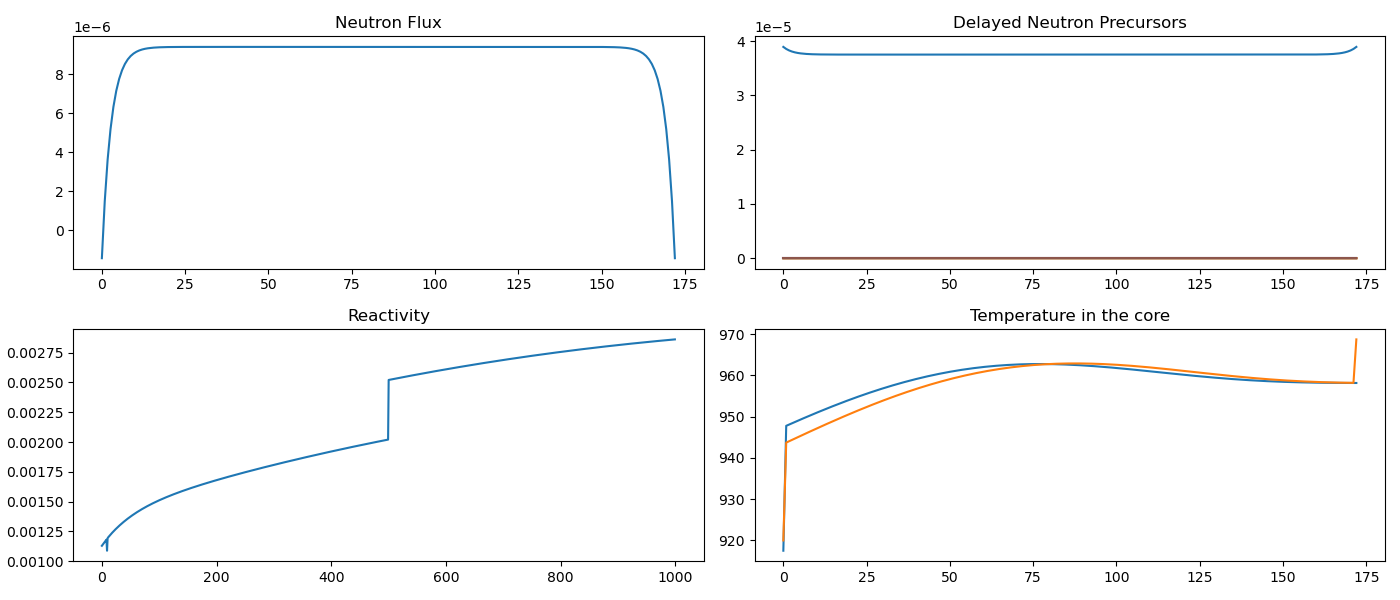
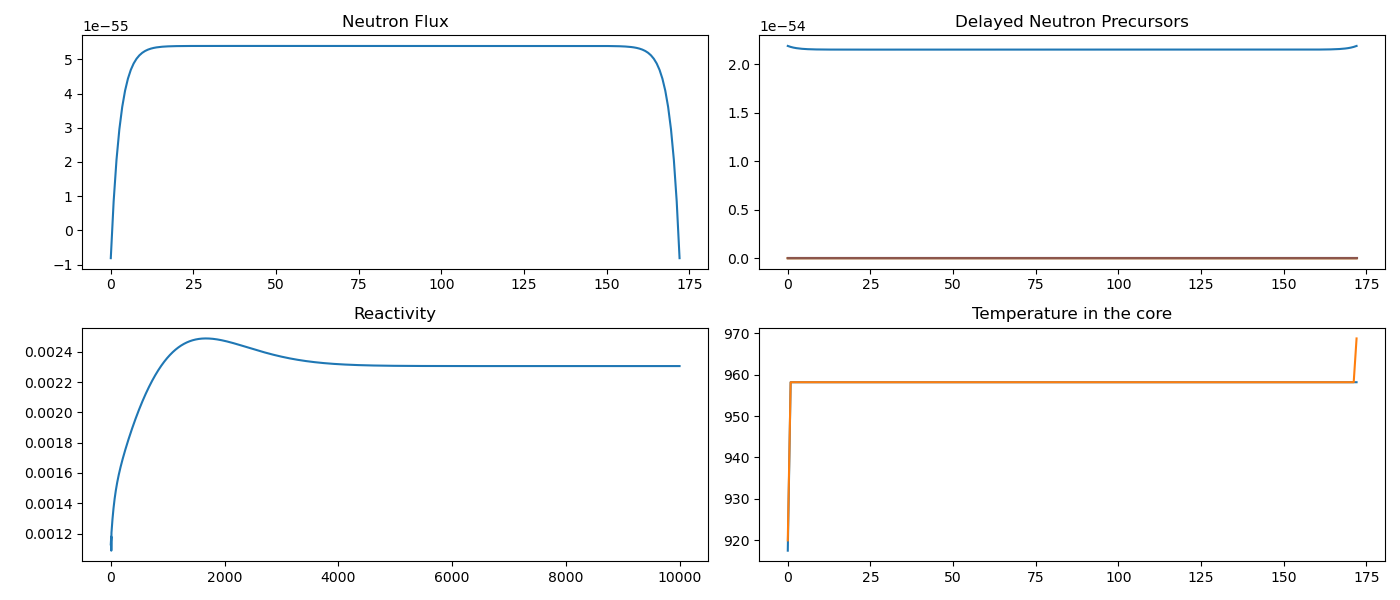
10000 steps results

diff --git a/main.py b/main.py
@@ -15,7 +15,7 @@ from HX2 import HX2
 from transport_delay import transport_delay
 from power_plant import power_plant_temp
 
-time_span = 1000
+time_span = 10000
 
 # reactivity insertion rod
 rho_insertion = 0  # pcm
